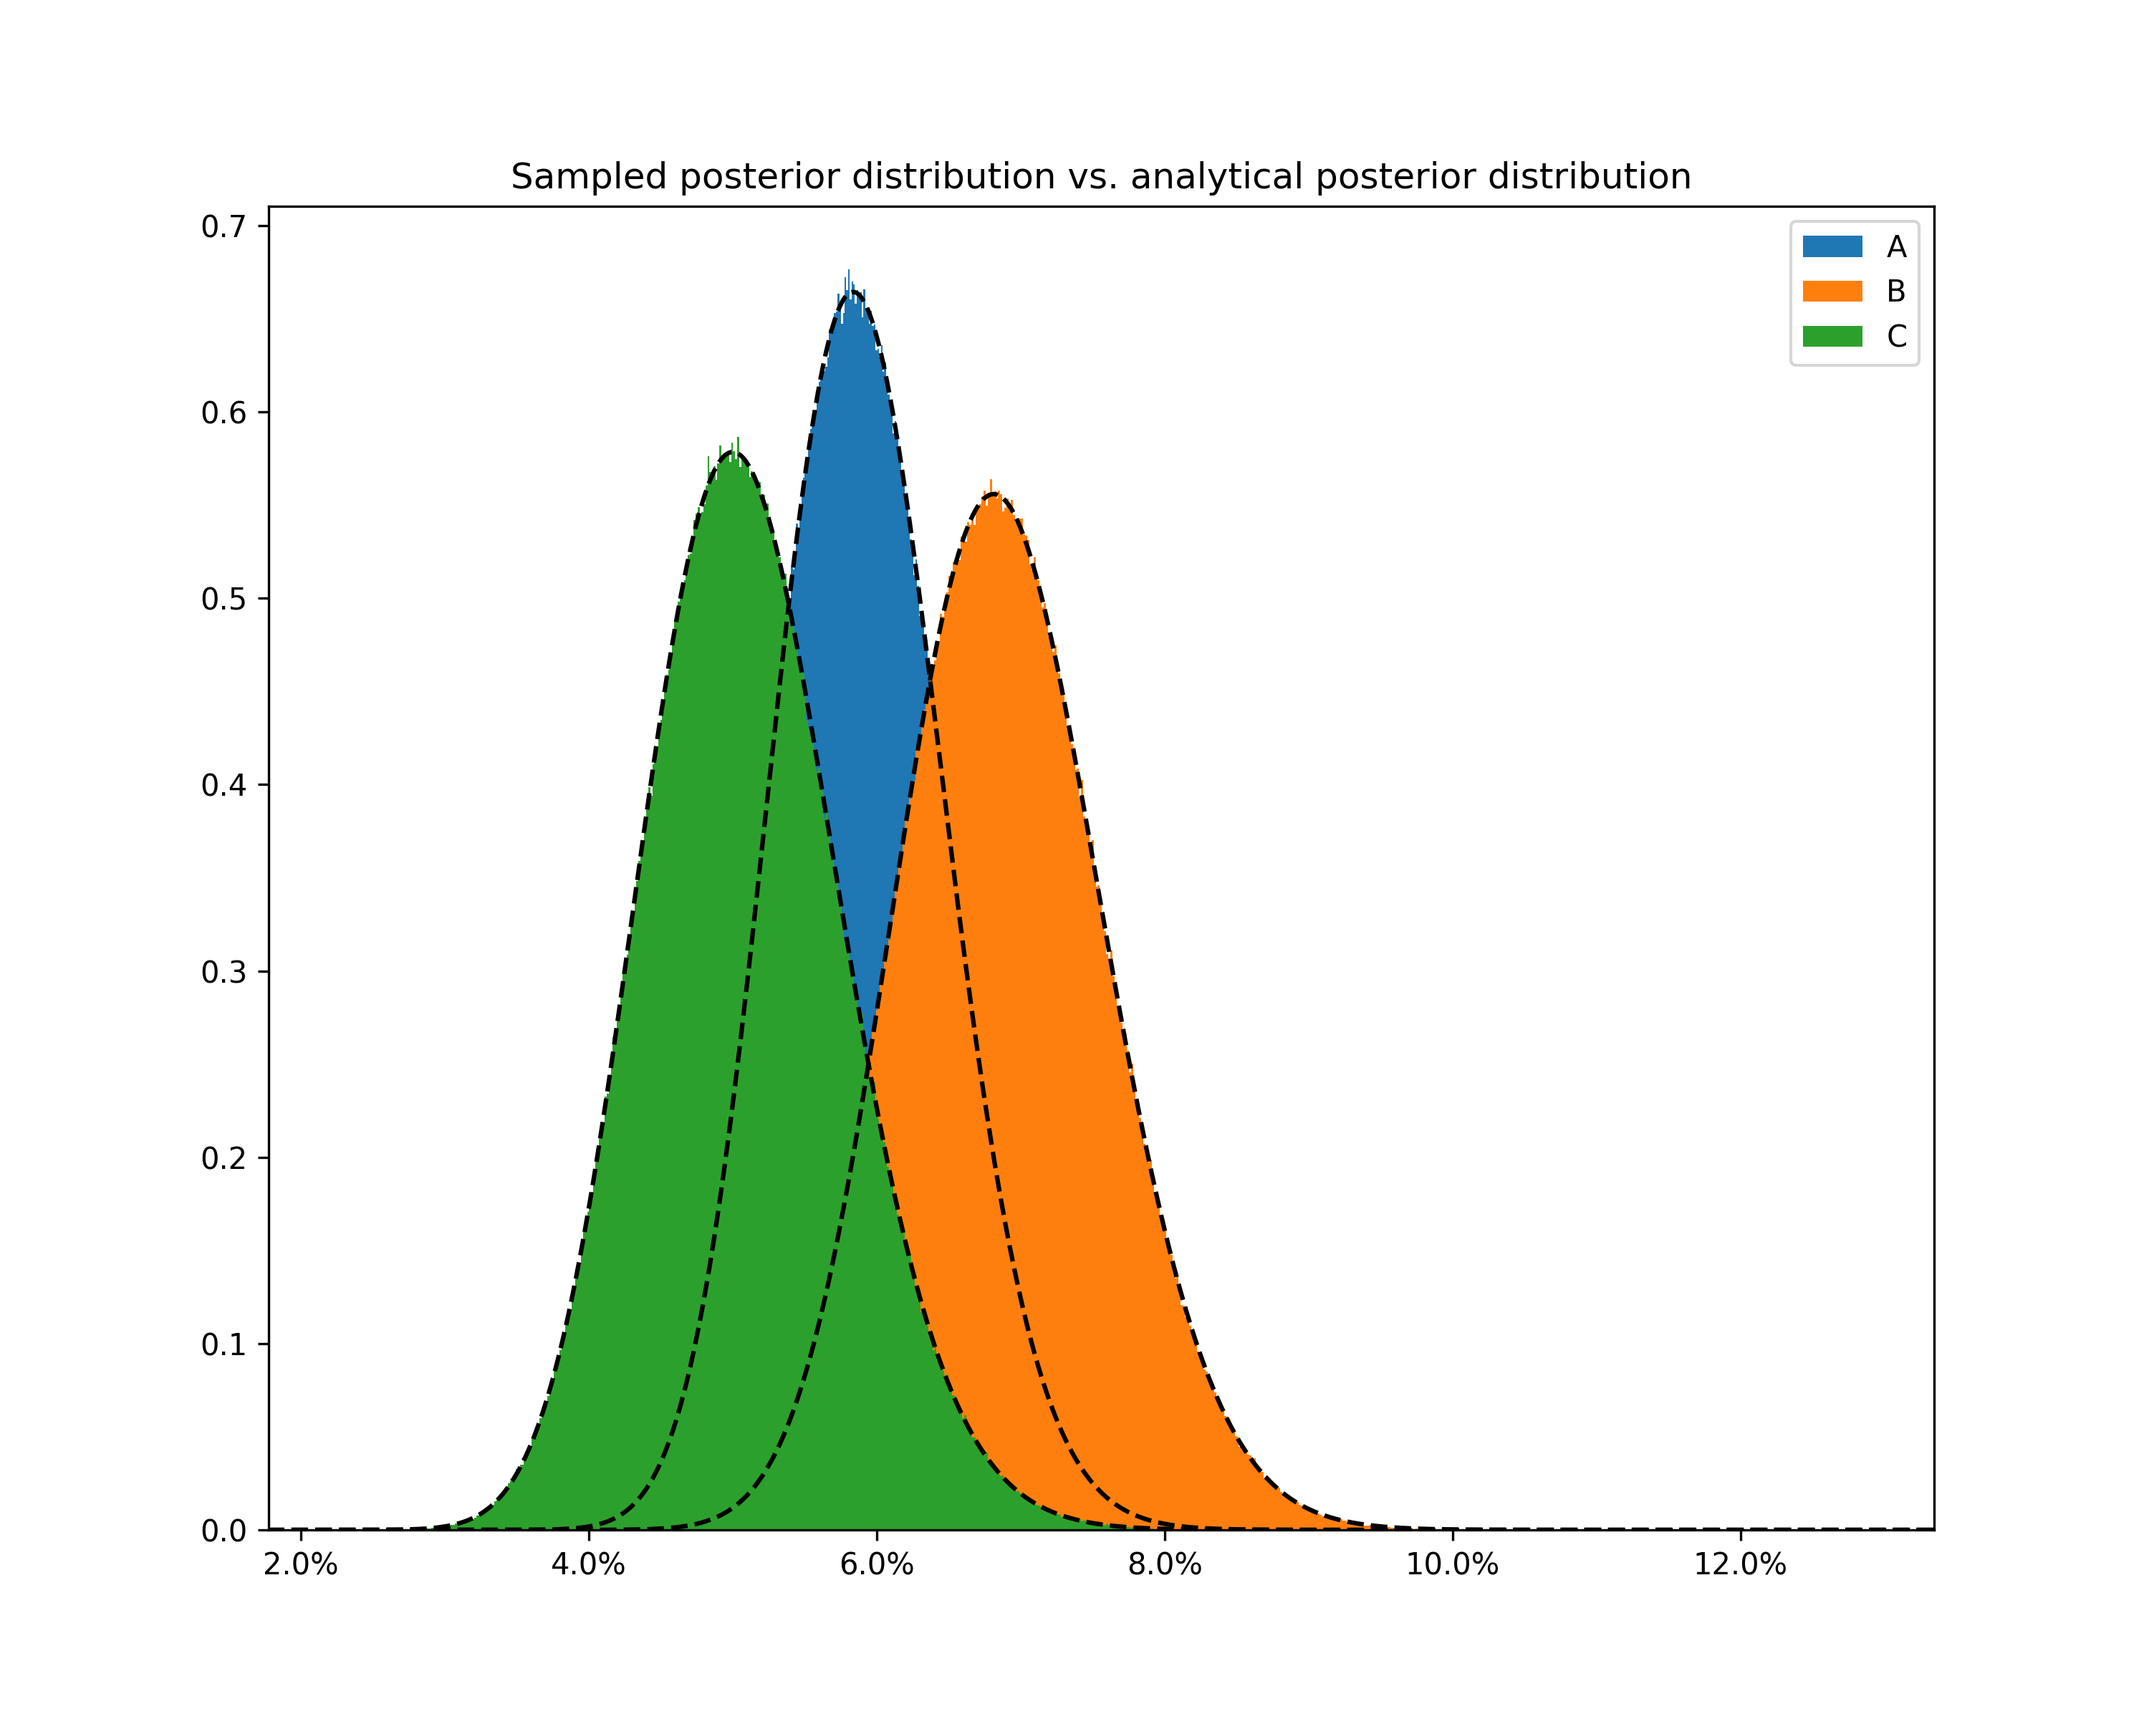
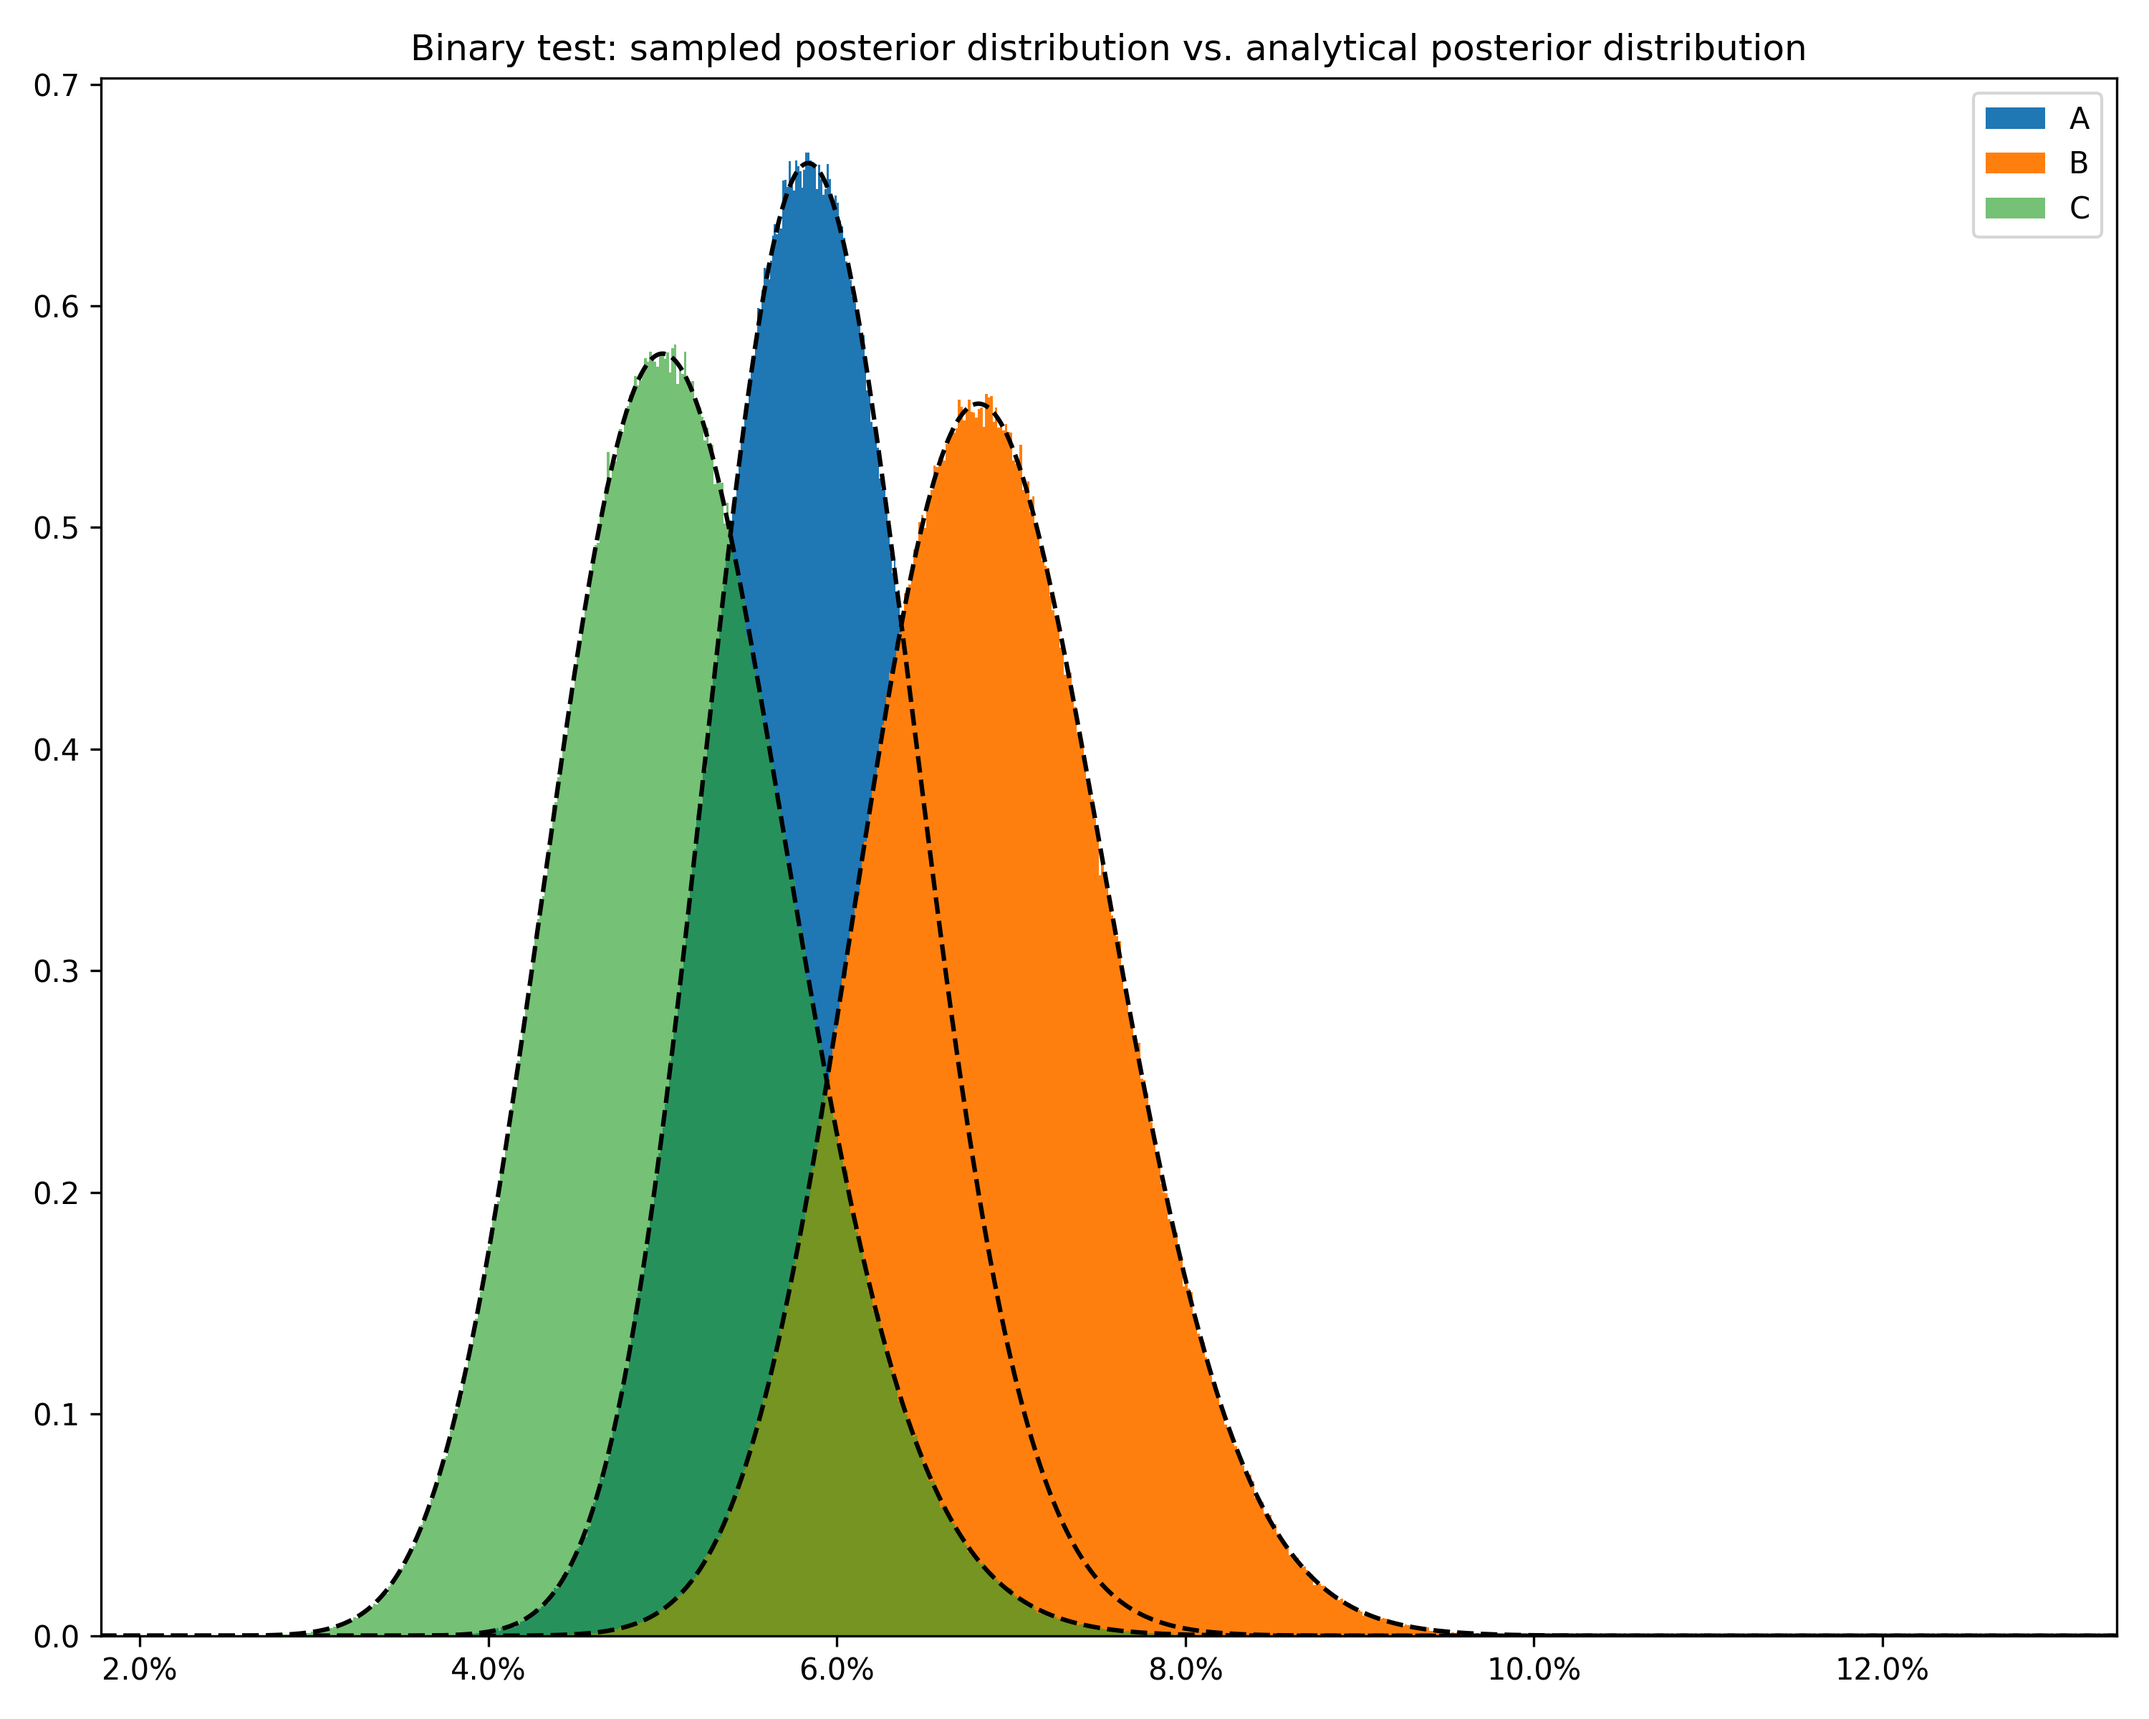
Updating examples readme and plots.

diff --git a/bayes_ab/experiments/poisson.py b/bayes_ab/experiments/poisson.py
@@ -624,73 +624,3 @@ class PoissonDataTest(BaseDataTest):
             plt.savefig(fname, dpi=dpi)
 
         plt.show()
-
-    def plot_posteriors(self, fname: str = None, dpi: int = 300) -> None:
-        """
-        For each variant, plot its posterior distribution.
-
-        Parameters
-        ----------
-        fname : Filename to which to save the resultant image; if None, the image is not saved.
-        dpi : DPI setting for saved image; used only when fname is not None.
-        """
-        fig, ax = plt.subplots(
-            figsize=(10, 8),
-        )
-
-        xmin = 1e6
-        xmax = 0
-        colors = list(mcolors.TABLEAU_COLORS.values())
-        dist_names = []
-        for var, color in zip(self.data, colors):
-            a = self.data[var]["a_prior"]
-            totals = self.data[var]["total"]
-            obs_mean = self.data[var]["obs_mean"]
-            b = self.data[var]["b_prior"]
-            mu = (a + totals * obs_mean) / (b + totals)
-
-            label = f"{var}: $\mu={mu:.1f}$"
-            dist_names.append(label)
-            x = np.linspace(
-                stats.gamma.pdf(0.0001, a=a + totals * obs_mean, scale=1 / (b + totals)),
-                stats.gamma.pdf(0.9999, a=a + totals * obs_mean, scale=1 / (b + totals)),
-                10000,
-            )
-            y = stats.gamma.pdf(x, a=a + totals * obs_mean, scale=1 / (b + totals))
-            ax.plot(x, y, label=label)
-
-            x_bound = x[
-                np.intersect1d(np.where(x > self.data[var]["bounds"][0])[0], np.where(x < self.data[var]["bounds"][1]))
-            ]
-            y_bound = y[
-                np.intersect1d(np.where(x > self.data[var]["bounds"][0])[0], np.where(x < self.data[var]["bounds"][1]))
-            ]
-            ax.fill_between(x_bound, y_bound, color=color, alpha=0.55)
-
-            x_bound = x[np.where(x < self.data[var]["bounds"][0])[0]]
-            y_bound = y[np.where(x < self.data[var]["bounds"][0])[0]]
-            ax.fill_between(x_bound, y_bound, color=color, alpha=0.10)
-
-            x_bound = x[np.where(x > self.data[var]["bounds"][1])[0]]
-            y_bound = y[np.where(x > self.data[var]["bounds"][1])[0]]
-            ax.fill_between(x_bound, y_bound, color=color, alpha=0.10)
-
-            if x[np.where(y >= 0.0001)[0][0]] < xmin:
-                xmin = x[np.where(y >= 0.0001)[0][0]]
-            if x[np.where(y >= 0.0001)[0][-1]] > xmax:
-                xmax = x[np.where(y >= 0.0001)[0][-1]]
-
-        ax.set_ylabel("Probability density")
-        ax.set_xlabel("Count value")
-
-        handles = [Rectangle((0, 0), 1, 1, color=colors[i]) for i in range(len(self.data))]
-        ax.legend(handles, dist_names)
-
-        plt.xlim([xmin * 0.9, xmax * 1.10])
-
-        fig.tight_layout()
-
-        if fname:
-            plt.savefig(fname, dpi=dpi)
-
-        plt.show()

diff --git a/examples/binary_simulation_check.py b/examples/binary_simulation_check.py
@@ -71,7 +71,7 @@ xmin, xmax = min_max(xmin, xmax, x, y)
 x = np.linspace(0, 1, 10000)
 y = stats.beta.pdf(x, 1 + 50, 1 + 1000 - 50)
 ax.plot(x * 100, y / 100, "k--")
-ax.hist(data["C"]["samples"] * 100, bins=500, density=True, color=colors[2], label="C")
+ax.hist(data["C"]["samples"] * 100, bins=500, density=True, color=colors[2], label="C", alpha=0.65)
 
 xmin, xmax = min_max(xmin, xmax, x, y)
 
@@ -80,6 +80,9 @@ xmin, xmax = min_max(xmin, xmax, x, y)
 ax.xaxis.set_major_formatter(mtick.PercentFormatter())
 ax.set_xlim(xmin * 80, xmax * 120)
 ax.legend()
-plt.title("Sampled posterior distribution vs. analytical posterior distribution")
+plt.title("Binary test: sampled posterior distribution vs. analytical posterior distribution")
+
+fig.tight_layout()
+
 plt.savefig("plots/binary_simulation_check.png", dpi=300)
 plt.show()

diff --git a/examples/poisson_simulation_check.py b/examples/poisson_simulation_check.py
@@ -68,7 +68,7 @@ xmin, xmax = min_max(xmin, xmax, x, y)
 x = np.linspace(0, 100, 10000)
 y = stats.gamma.pdf(x, a=10 + len(data_c) * np.mean(data_c), scale=1 / (10 + len(data_c)))
 ax.plot(x, y, "k--")
-ax.hist(data["C"]["samples"], bins=500, density=True, color=colors[2], label="C")
+ax.hist(data["C"]["samples"], bins=500, density=True, color=colors[2], label="C", alpha=0.65)
 
 xmin, xmax = min_max(xmin, xmax, x, y)
 
@@ -76,6 +76,9 @@ xmin, xmax = min_max(xmin, xmax, x, y)
 
 ax.set_xlim(xmin * 0.95, xmax * 1.05)
 ax.legend()
-plt.title("Sampled posterior distribution vs. analytical posterior distribution")
+plt.title("Poisson test: sampled posterior distribution vs. analytical posterior distribution")
+
+fig.tight_layout()
+
 plt.savefig("plots/poisson_simulation_check.png", dpi=300)
 plt.show()

diff --git a/examples/README.md b/examples/README.md
@@ -5,14 +5,14 @@ new package architecture._
 
 ---
 
-#### How well do 2,000,000 simulations capture a posterior distribution?
+### How well do 2,000,000 simulations capture a posterior distribution?
 
 In short, very well. [binary_simulation_check.py](binary_simulation_check.py)
 and [poisson_simulation_check.py](poisson_simulation_check.py)
 give a visual answer to this question for one configuration each of the binary and Poisson tests.
 
-##### Binary test
+#### Binary test
 ![](https://raw.githubusercontent.com/PlatosTwin/bayes_ab/main/examples/plots/binary_simulation_check.png)
 
-##### Poisson test
+#### Poisson test
 ![](https://raw.githubusercontent.com/PlatosTwin/bayes_ab/main/examples/plots/poisson_simulation_check.png)
